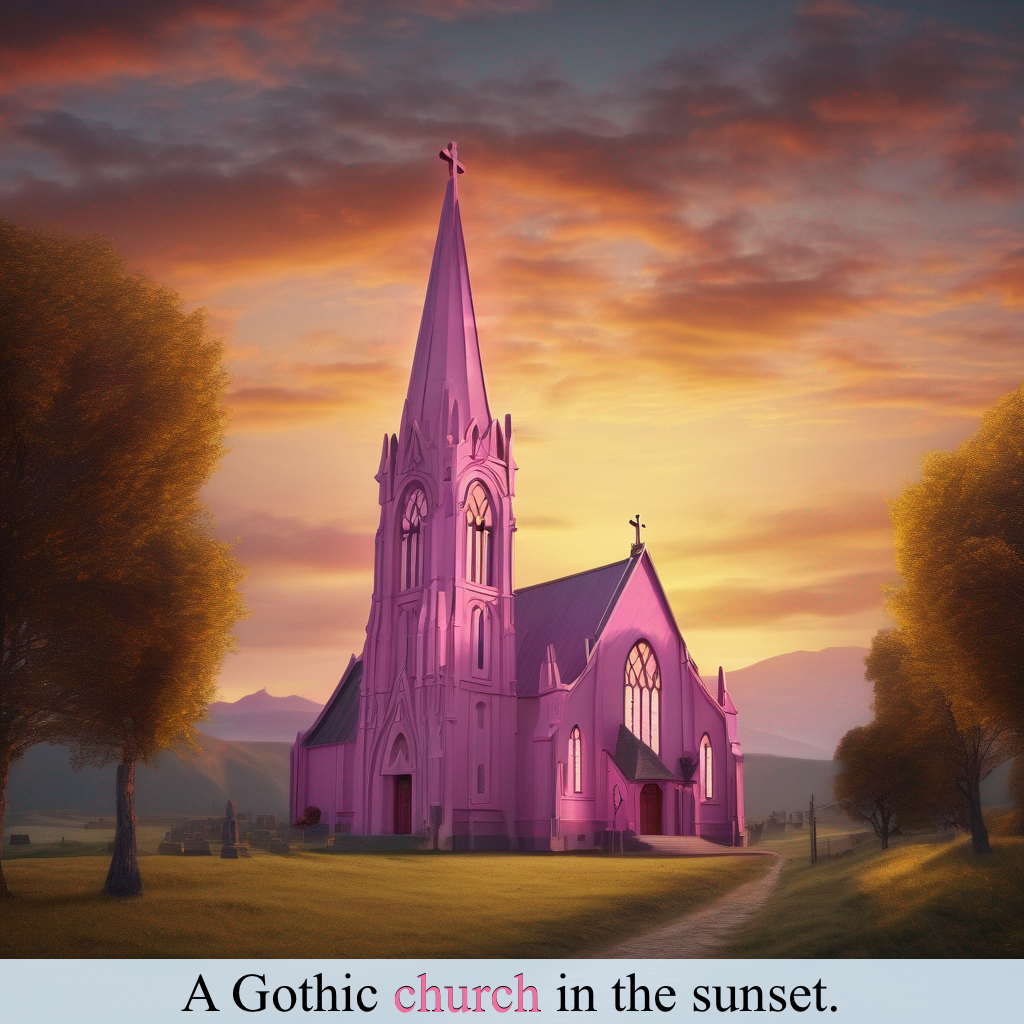
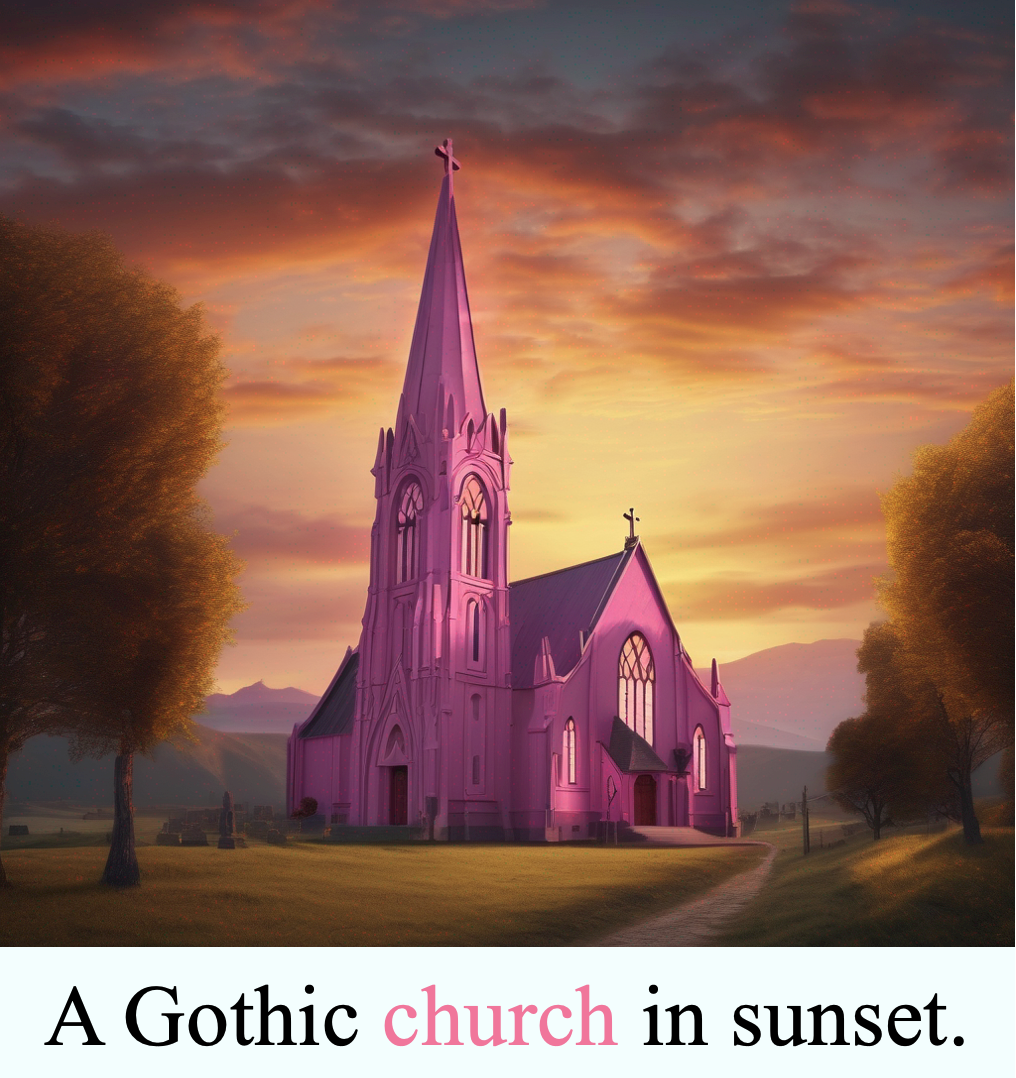
ar

diff --git a/index.html b/index.html
@@ -68,6 +68,22 @@
           <div class="hover-image-container" onmouseover="hoverImage(this)" onmouseout="resetImage(this)">
             <div class="row">
               <div class="col-md-3" style="padding:30px;width:25%;vertical-align:middle">
+                <img src="./files/paper_teasers/ar_base.png" class="img-fluid default-image">
+                <img src="./files/paper_teasers/ar_ours.png" class="img-fluid hover-image">
+              </div>
+              <div class="col-md-9 d-flex align-items-center">
+                <p>
+                  <a href="https://arxiv.org/pdf/2306.05427.pdf">Grounded Text-to-Image Synthesis with Attention Refocusing</a><br>
+                  Quynh Phung, <u>Songwei Ge</u>, Jia-Bin Huang<br>
+                  <i> Preprint, 2023</i><br>
+                  [<a href="https://arxiv.org/abs/2306.05427">arXiv</a>] [<a href="https://github.com/Attention-Refocusing/attention-refocusing">Code</a>] [<a href="https://attention-refocusing.github.io/">Project Page</a>]
+                </p>
+              </div>
+            </div>
+          </div>
+          <div class="hover-image-container" onmouseover="hoverImage(this)" onmouseout="resetImage(this)">
+            <div class="row">
+              <div class="col-md-3" style="padding:30px;width:25%;vertical-align:middle">
                 <img src="./files/paper_teasers/pyoco_robot_dance.jpg" class="img-fluid default-image">
                 <video width=100% height=100% muted autoplay loop class="img-fluid hover-image">
                   <source src="./files/paper_teasers/pyoco_robot_dance.mp4" type="video/mp4">
